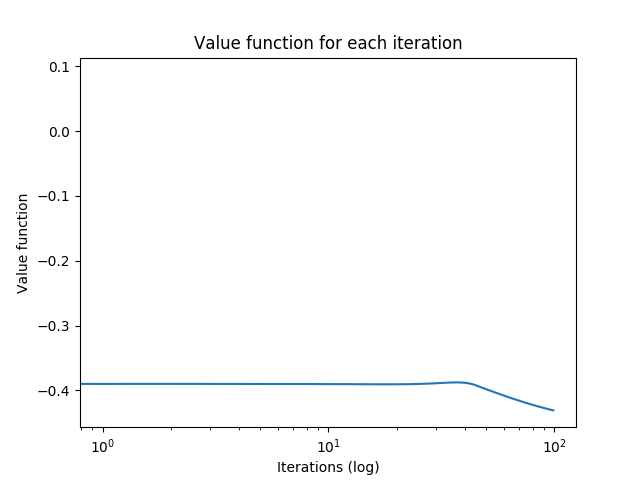
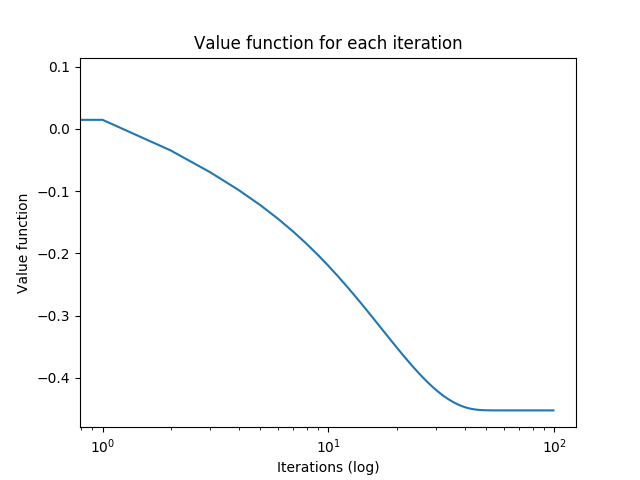
add tests

diff --git a/tests/test_hopfield.py b/tests/test_hopfield.py
@@ -29,8 +29,8 @@ class TestHopfield(unittest.TestCase):
     def test_hopfield_default(self):
         solver = HopfieldSolver(max_iterations=self.k_max)
         solver.setup_optimization_problem(self.objective_function, self.gradient, self.lb, self.ub,
-                                               self.binary_indicator,
-                                               smoothness_coef=self.smoothness_coefficient)
+                                          self.binary_indicator,
+                                          smoothness_coef=self.smoothness_coefficient)
         x, x_h, f_val_hist, step_size = solver.solve_optimization_problem()
         self.assertEqual(x.shape[0], self.q.shape[0])
         self.assertEqual(x.shape[1], self.k_max)
@@ -63,55 +63,85 @@ class TestHopfield(unittest.TestCase):
         self.assertEqual(x.shape[1], self.k_max)
 
 
-# class TestOthers(unittest.TestCase):
-#     def setUp(self):
-#         self.n = 2
-#         self.H = np.array([[2, 0], [0, 1]])
-#         self.q = np.array([-2.7, -1.8])
-#         self.k_max = 20
-#         self.binary_indicator = np.array([0, 1])
-#         self.beta = np.ones(2)
-#         self.ub = np.array([1, 1])
-#         self.lb = np.array([0, 0])
-#         self.x = np.ones((self.n, self.k_max))
-#         self.x_0 = self.lb + (self.ub - self.lb) / 2
-#         self.smoothness_coef = np.max(np.linalg.eigvals(self.H))
-#         self.ascent_stop_criterion = 0.1
-#
-#     def test_create_initial_ascent_ascent(self):
-#         self.assertEqual(self.x_0.shape[0], hop.initial_state(self.H, self.q, self.lb, self.ub, self.binary_indicator,
-#                                                               self.k_max, self.smoothness_coef, self.x_0,
-#                                                               'ascent', self.ascent_stop_criterion).shape[0])
-#
-#     def test_create_initial_ascent_binary_neutral_ascent(self):
-#         self.assertEqual(self.x_0.shape[0], hop.initial_state(self.H, self.q, self.lb, self.ub, self.binary_indicator,
-#                                                               self.k_max, self.smoothness_coef, self.x_0,
-#                                                               'binary_neutral_ascent',
-#                                                               self.ascent_stop_criterion).shape[0])
-#
-#     def test_compute_inverse_activation(self):
-#         activation_type = ['pwl', 'exp', 'sin', 'identity', 'tanh']
-#
-#         x_0 = self.lb + (self.ub - self.lb) / 2
-#         beta = 0.5 * x_0
-#
-#         for i in activation_type:
-#             if i is 'tanh':
-#                 beta = [[1, 0], [0, 1]]
-#                 self.assertTrue(np.array_equal(x_0, hop.inverse_activation(x_0, self.lb, self.ub, beta, i)[0]))
-#             else:
-#                 self.assertTrue(np.array_equal(x_0, hop.inverse_activation(x_0, self.lb, self.ub, beta, i)))
-#
-#     def test_compute_activation(self):
-#         activation_type = ['pwl', 'exp', 'sin', 'identity', 'tanh']
-#         solution = [[1, 1], [0.81606028, 0.81606028], [0.92073549, 0.92073549], [1., 1.], [0.88079708, 0.88079708]]
-#
-#         x_0 = np.ones(self.n)
-#
-#         for i in range(len(activation_type)):
-#             self.assertTrue(np.array_equal(
-#                 np.round(hop.activation(x_0, self.lb, self.ub, self.beta, activation_type[i]), decimals=8),
-#                 solution[i]))
+class TestOthers(unittest.TestCase):
+    def setUp(self):
+        self.H = np.array([[2, 0], [0, 1]])
+        self.q = np.array([-2.7, -1.8])
+        self.k_max = 20
+        self.binary_indicator = np.array([0, 1])
+        self.beta = 1
+        self.ub = np.array([1, 1])
+        self.lb = np.array([0, 0])
+        self.absorption = 1
+        self.step_type = 'classic'
+        self.x_0 = self.lb + (self.ub - self.lb) / 2
+        self.objective_function = lambda x: 1 / 2 * np.dot(np.dot(x.T, self.H), x) + np.dot(self.q.T, x)
+        self.gradient = lambda x: np.dot(self.H, x) + self.q
+        self.smoothness_coefficient = utils.smoothness_coefficient(self.H)
+        self.n = 2
+        self.x = np.ones((self.n, self.k_max))
+
+        self.ascent_stop_criterion = 0.1
+
+    def test_create_initial_ascent_ascent(self):
+        solver = HopfieldSolver(max_iterations=self.k_max)
+        solver.setup_optimization_problem(self.objective_function, self.gradient, self.lb, self.ub,
+                                          self.binary_indicator,
+                                          smoothness_coef=self.smoothness_coefficient)
+        self.assertTrue(np.array_equal(self.x_0.shape, solver._compute_x_0(self.x_0).shape))
+
+    def test_create_initial_ascent_binary_neutral_ascent(self):
+        solver = HopfieldSolver(max_iterations=self.k_max, initial_ascent_type='binary_neutral_ascent')
+        solver.setup_optimization_problem(self.objective_function, self.gradient, self.lb, self.ub,
+                                          self.binary_indicator,
+                                          smoothness_coef=self.smoothness_coefficient)
+        self.assertTrue(np.array_equal(self.x_0.shape, solver._compute_x_0(self.x_0).shape))
+
+    def test_activation_function(self):
+        x_0 = self.lb + (self.ub - self.lb) / 2
+        beta = 0.5 * x_0
+        activation_functions = [utils.activation_pwl, utils.activation_exp, utils.activation_sin,
+                                utils.activation_identity, utils.activation_tanh]
+
+        for activation_function in activation_functions:
+            solver = HopfieldSolver(max_iterations=self.k_max, activation_function=activation_function)
+            solver.setup_optimization_problem(self.objective_function, self.gradient, self.lb, self.ub,
+                                              self.binary_indicator, x_0=x_0, beta=beta,
+                                              smoothness_coef=self.smoothness_coefficient)
+            self.assertTrue(np.array_equal(x_0, solver._activation(x_0, self.lb, self.ub)))
+
+    def test_inverse_activation_function(self):
+        x_0 = self.lb + (self.ub - self.lb) / 2
+        beta = 0.5 * x_0
+        inverse_activation_functions = [utils.inverse_activation_pwl, utils.inverse_activation_exp,
+                                        utils.inverse_activation_sin, utils.inverse_activation_identity,
+                                        utils.inverse_activation_tanh]
+
+        for inverse_activation_function in inverse_activation_functions:
+            solver = HopfieldSolver(max_iterations=self.k_max, inverse_activation_function=inverse_activation_function)
+            solver.setup_optimization_problem(self.objective_function, self.gradient, self.lb, self.ub,
+                                              self.binary_indicator, x_0=x_0, beta=beta,
+                                              smoothness_coef=self.smoothness_coefficient)
+            self.assertTrue(np.array_equal(x_0, solver._inverse_activation(x_0, self.lb, self.ub)))
+
+        self.assertTrue(False)
+
+    def test_proxy_distance_vector(self):
+        x_0 = self.lb + (self.ub - self.lb) / 2
+        beta = 0.5 * x_0
+        proxy_distance_vectors = [utils.proxy_distance_vector_pwl, utils.proxy_distance_vector_exp,
+                                  utils.proxy_distance_vector_sin, utils.proxy_distance_vector_identity,
+                                  utils.proxy_distance_vector_tanh]
+
+        outputs = [0.25, 0.125, 0.25, 0, 0.25]
+
+        for i in range(len(proxy_distance_vectors)):
+            solver = HopfieldSolver(max_iterations=self.k_max, proxy_distance_vector=proxy_distance_vectors[i])
+            solver.setup_optimization_problem(self.objective_function, self.gradient, self.lb, self.ub,
+                                              self.binary_indicator, x_0=x_0, beta=beta,
+                                              smoothness_coef=self.smoothness_coefficient)
+            self.assertAlmostEqual(outputs[i], solver._proxy_distance_vector(x_0)[0], 3)
+
 #
 #     def test_compute_binary_absorption_mask(self):
 #         x_0 = 0.5 * np.ones(self.n)

diff --git a/hmip/hopfield.py b/hmip/hopfield.py
@@ -4,14 +4,16 @@ import math
 
 
 class HopfieldSolver():
-    def __init__(self, activation_function=utils.proxy_distance_vector_sin,
-                 inverse_activation_function=utils.activation_sin, gamma=0.9, theta=0.1,
-                 ascent_stop_criterion=0.1, absorption_criterion=False, max_iterations=100, beta=1,
-                 stopping_criterion_type='gradient', direction_type='soft_binary', step_type='classic',
+    def __init__(self, activation_function=utils.activation_pwl,
+                 inverse_activation_function=utils.inverse_activation_pwl,
+                 proxy_distance_vector=utils.proxy_distance_vector_pwl,
+                 gamma=0.9, theta=0.1, ascent_stop_criterion=0.001, absorption_criterion=False, max_iterations=100,
+                 stopping_criterion_type='gradient', direction_type='classic', step_type='classic',
                  initial_ascent_type='ascent', precision_stopping_criterion=10 ** -6):
 
         self.activation_function = activation_function
         self.inverse_activation_function = inverse_activation_function
+        self.proxy_distance_vector = proxy_distance_vector
         self.ascent_stop_criterion = utils.adapt_ascent_stop_criterion(ascent_stop_criterion, absorption_criterion)
         self.stopping_criterion_type = stopping_criterion_type
         self.absorption_criterion = absorption_criterion
@@ -23,21 +25,25 @@ class HopfieldSolver():
         self.gamma = gamma
         self.theta = theta
         self.problem = None
-        self.beta = beta
+        self.beta = None
 
     def setup_optimization_problem(self, objective_function, gradient, lb, ub, binary_indicator, x_0=None,
-                                   smoothness_coef=None):
+                                   smoothness_coef=None, beta=None):
         # TODO: Find how to chose smoothness_coef when using barrier method
         self.problem = dict({'objective_function': objective_function, 'gradient': gradient, 'lb': lb, 'ub': ub,
                              'binary_indicator': binary_indicator,
                              'smoothness_coef': smoothness_coef, 'x_0': x_0, 'dim_problem': len(binary_indicator)})
+        if type(beta) == int:
+            self.beta = beta * np.ones(self.problem['dim_problem'])
+        elif beta is None:
+            self.beta = np.ones(self.problem['dim_problem'])
+        else:
+            self.beta = beta
         self.problem['x_0'] = self._compute_x_0(x_0)
 
     def solve_optimization_problem(self):
         if self.problem is None:
             raise Exception('Problem is not set')
-        if type(self.beta) == int:
-            self.beta = self.beta * np.ones(self.problem['dim_problem'])
 
         x = np.ones((self.problem['dim_problem'], self.max_iterations))
         x_h = np.ones((self.problem['dim_problem'], self.max_iterations))
@@ -65,7 +71,7 @@ class HopfieldSolver():
                 f_val_hist[k + 1] = f_val_hist[k] + 1
                 prox_dist = self._proxy_distance_vector(x[:, k])
                 while f_val_hist[k + 1] > f_val_hist[k] + alpha * np.dot(np.multiply(prox_dist, grad_f).T, direction):
-                    x[:, k + 1], x_h[:, k + 1] = self._hopfield_update(x_h[:, k], x_h[:, k], alpha, direction)
+                    x[:, k + 1], x_h[:, k + 1] = self._hopfield_update(x_h[:, k], alpha, direction)
                     f_val_hist[k + 1] = self.problem['objective_function'](x[:, k + 1])
                     alpha = alpha / 2
                 step_size[k] = 2 * alpha
@@ -73,7 +79,7 @@ class HopfieldSolver():
             else:
                 if alpha is None:
                     alpha = self._alpha_hop(x[:, k], grad_f, k, direction)
-                x[:, k + 1], x_h[:, k + 1] = self._hopfield_update(x_h[:, k], x_h[:, k], alpha, direction)
+                x[:, k + 1], x_h[:, k + 1] = self._hopfield_update(x_h[:, k], alpha, direction)
                 step_size[k] = alpha
                 f_val_hist[k + 1] = self.problem['objective_function'](x[:, k + 1])
 
@@ -86,12 +92,16 @@ class HopfieldSolver():
         print('Candidate solution found with %s number of iterations.' % k)
         return x, x_h, f_val_hist, step_size
 
-    def _hopfield_update(self, x, x_h, alpha, direction):
+    def _hopfield_update(self, x_h, alpha, direction):
+        if self.problem is None:
+            raise Exception('Problem is not set')
         x_h = x_h + alpha * direction
         x = self._activation(x_h, self.problem['lb'], self.problem['ub'])
         return x, x_h
 
     def _alpha_hop(self, x, grad_f, k, direction):
+        if self.problem is None:
+            raise Exception('Problem is not set')
         sigma = self._proxy_distance_vector(x)
         denominator = self.problem['smoothness_coef'] * np.linalg.norm(
             np.multiply(self.beta, direction)) ** 2 + 12 * np.dot(np.power(
@@ -105,6 +115,8 @@ class HopfieldSolver():
         return alpha
 
     def _compute_x_0(self, x_0):
+        if self.problem is None:
+            raise Exception('Problem is not set')
         if x_0 is None or not utils.is_in_box(x_0, self.problem['ub'], self.problem['lb']):
             return self.problem['lb'] + (self.problem['ub'] - self.problem['lb']) / 2
         n = len(x_0)
@@ -129,6 +141,8 @@ class HopfieldSolver():
                                         self.problem['lb'] + self.ascent_stop_criterion)
 
     def _stopping_criterion_met(self, x, grad_f, iterations):
+        if self.problem is None:
+            raise Exception('Problem is not set')
         if iterations >= self.max_iterations - 1:
             return True
         else:
@@ -140,6 +154,8 @@ class HopfieldSolver():
                 return False
 
     def _find_direction(self, x, grad_f, convergence_to_binary):
+        if self.problem is None:
+            raise Exception('Problem is not set')
         # TODO(Mathilde): Here sometimes there is no solution
         n = np.size(x)
         binary_absorption_mask = self._compute_binary_absorption_mask(x)
@@ -162,7 +178,7 @@ class HopfieldSolver():
             if self.direction_type is 'soft_binary':
                 b = np.multiply(
                     self._activation(x, self.problem['ub'], self.problem['lb']) + 1 / 2 * (
-                                self.problem['lb'] - self.problem['ub']),
+                            self.problem['lb'] - self.problem['ub']),
                     self.problem['binary_indicator'])
                 h = - grad_f
             elif self.direction_type is 'binary':
@@ -190,6 +206,8 @@ class HopfieldSolver():
         return direction
 
     def _compute_binary_absorption_mask(self, x):
+        if self.problem is None:
+            raise Exception('Problem is not set')
         n = np.size(x)
         binary_absorption_mask = np.ones(n)
         for i in range(n):
@@ -199,6 +217,8 @@ class HopfieldSolver():
         return binary_absorption_mask
 
     def _absorb_solution_to_limits(self, x):
+        if self.problem is None:
+            raise Exception('Problem is not set')
         for i in range(len(x)):
             if min(x[i] - self.problem['lb'][i], self.problem['ub'][i] - x[i]) < self.absorption_criterion:
                 if x[i] + 1 / 2 * (self.problem['lb'][i] - self.problem['ub'][i]) < 0:
@@ -216,6 +236,8 @@ class HopfieldSolver():
         return lb + np.multiply(ub - lb, self.activation_function(z, self.beta))
 
     def _proxy_distance_vector(self, x):
+        if self.problem is None:
+            raise Exception('Problem is not set')
         # TODO(BERTRAND): Check and rectify that function
         z = np.divide((x - self.problem['lb']), (self.problem['ub'] - self.problem['lb']))
-        return self.activation_function(z, self.beta)
+        return self.proxy_distance_vector(z, self.beta)

diff --git a/visualizations/example_visualization.py b/visualizations/example_visualization.py
@@ -8,19 +8,24 @@ H = np.array([[2, 0.4], [0, 2]])
 q = np.array([-1, -1])
 k_max = 100
 binary_indicator = np.array([1, 0])
-ub = np.array([1, 2])
-lb = np.array([0.5, 0.2])
+ub = np.array([1, 1])
+lb = np.array([0, 0])
 H = utils.make_symmetric(H)
 smoothness_coefficient = utils.smoothness_coefficient(H)
+beta = np.array([10.0, 1.0])
 
 objective_function = lambda x: 1 / 2 * np.dot(np.dot(x.T, H), x) + np.dot(q.T, x)
 gradient = lambda x: np.dot(H, x) + q
 
-solver = HopfieldSolver(max_iterations=k_max)
-solver.setup_optimization_problem(objective_function, gradient, lb, ub, binary_indicator,
-                                  smoothness_coef=smoothness_coefficient)
-x, x_h, f_val_hist, step_size = solver.solve_optimization_problem()
+activation_functions = [utils.activation_pwl, utils.activation_exp, utils.activation_sin, utils.activation_identity,
+                        utils.activation_tanh]
 
-visuals.plot_evolution_objective_function_2d(H, q, x, lb, ub, k_max, 'objective_function_2d.png')
-visuals.plot_value_function(f_val_hist, 'value_function.png')
-visuals.plot_step_size(step_size, 'step_size.png')
+for activation_function in activation_functions:
+    solver = HopfieldSolver(max_iterations=k_max, activation_function=activation_function)
+    solver.setup_optimization_problem(objective_function, gradient, lb, ub, binary_indicator,
+                                      smoothness_coef=smoothness_coefficient, beta=beta)
+    x, x_h, f_val_hist, step_size = solver.solve_optimization_problem()
+
+    visuals.plot_evolution_objective_function_2d(H, q, x, lb, ub, k_max, 'objective_function_2d.png')
+    # visuals.plot_value_function(f_val_hist, 'value_function.png')
+    # visuals.plot_step_size(step_size, 'step_size.png')

diff --git a/hmip/utils.py b/hmip/utils.py
@@ -49,7 +49,11 @@ def proxy_distance_vector_sin(x, beta):
     :param beta: (np.array) size of x, parameter of the function
     :return:
     """
-    print(x)
+    # TODO(Bertrand): check
+    if np.isnan(x).any():
+        return x
+    if np.less_equal((1 - x), 0).any():
+        x = x - 0.001 * np.ones(len(x))
     sin = 2 * np.multiply(np.multiply(beta, np.sqrt(x)), np.sqrt(1 - x))
     return sin
 
@@ -181,7 +185,9 @@ def inverse_activation_tanh(x, beta):
     :param beta: (np.array) size of x, parameter of the function
     :return:
     """
-    tanh = 2 * np.multiply(np.linalg.inv(beta), np.arctanh(2 * x - 1)) + 1 / 2
+
+    print(2 * x - 1)
+    tanh = np.divide(np.arctanh(2 * x - 1), 2 * beta) + 1 / 2
     return tanh
 
 
